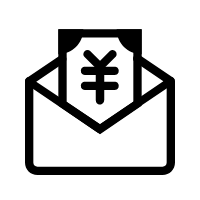
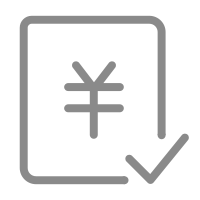
20190810 首页修改图标，合计金额

diff --git a/dist/wx/pages/index/main.js b/dist/wx/pages/index/main.js
@@ -256,6 +256,11 @@ if (false) {(function () {
 //
 //
 //
+//
+//
+//
+//
+//
 
 
 
@@ -335,7 +340,8 @@ function initChart(canvas, width, height) {
             echarts: __WEBPACK_IMPORTED_MODULE_2__static_echarts_min_js___default.a,
             onInit: initChart,
 
-            tableData: []
+            tableData: [],
+            totalMoney: ''
         };
     },
     onShow: function onShow() {
@@ -419,9 +425,17 @@ function initChart(canvas, width, height) {
                 success: function success(res) {
                     var info = res.data.reverse();
                     option.series[0].data = [];
+                    var num = new Number();
                     info.forEach(function (el, i) {
                         option.series[0].data.push({ value: i, name: el.name + '(' + el.value + ')', label: el.value });
+                        if (el.name !== '成功签约' && el.name !== '失败关闭') {
+                            var val = el.opportunity_achievement.replace(new RegExp(',', 'g'), '');
+                            val = parseFloat(val);
+                            num += val;
+                        }
                     });
+
+                    _this.totalMoney = num;
 
                     _this.tableData = info.reverse();
 
@@ -657,8 +671,38 @@ var render = function () {var _vm=this;var _h=_vm.$createElement;var _c=_vm._sel
     return _c('view', {
       key: index,
       staticClass: "index_table_td"
-    }, [_c('span', [_vm._v(_vm._s(item.name + '(' + item.proportion + ')'))]), _vm._v(" "), _c('span', [_vm._v(_vm._s(item.value))]), _vm._v(" "), _c('span', [_vm._v(_vm._s(item.opportunity_achievement))])])
-  })], 2)], 1)
+    }, [_c('span', {
+      staticStyle: {
+        "flex": "1.5"
+      }
+    }, [_vm._v(_vm._s(item.name + '(' + item.proportion + ')'))]), _vm._v(" "), _c('span', {
+      staticStyle: {
+        "padding-left": "42px",
+        "box-sizing": "border-box",
+        "flex": "1"
+      }
+    }, [_vm._v(_vm._s(item.value))]), _vm._v(" "), _c('span', {
+      staticStyle: {
+        "flex": "1"
+      }
+    }, [_vm._v(_vm._s(item.opportunity_achievement))])])
+  }), _vm._v(" "), _c('view', {
+    staticClass: "index_table_foot"
+  }, [_c('span', {
+    staticStyle: {
+      "flex": "1.5"
+    }
+  }, [_vm._v("合计")]), _vm._v(" "), _c('span', {
+    staticStyle: {
+      "padding-left": "42px",
+      "box-sizing": "border-box",
+      "flex": "1"
+    }
+  }), _vm._v(" "), _c('span', {
+    staticStyle: {
+      "flex": "1"
+    }
+  }, [_vm._v(_vm._s(_vm.totalMoney))])])], 2)], 1)
 }
 var staticRenderFns = [function () {var _vm=this;var _h=_vm.$createElement;var _c=_vm._self._c||_h;
   return _c('view', {
@@ -807,7 +851,19 @@ var staticRenderFns = [function () {var _vm=this;var _h=_vm.$createElement;var _
 },function () {var _vm=this;var _h=_vm.$createElement;var _c=_vm._self._c||_h;
   return _c('view', {
     staticClass: "index_table_th"
-  }, [_c('span', [_vm._v("商机阶段")]), _vm._v(" "), _c('span', [_vm._v("机会数量")]), _vm._v(" "), _c('span', [_vm._v("预计合同金额")])])
+  }, [_c('span', {
+    staticStyle: {
+      "flex": "1.5"
+    }
+  }, [_vm._v("商机阶段")]), _vm._v(" "), _c('span', {
+    staticStyle: {
+      "flex": "1"
+    }
+  }, [_vm._v("机会数量")]), _vm._v(" "), _c('span', {
+    staticStyle: {
+      "flex": "1"
+    }
+  }, [_vm._v("预计成交金额")])])
 }]
 render._withStripped = true
 var esExports = { render: render, staticRenderFns: staticRenderFns }

diff --git a/src/pages/index/index.vue b/src/pages/index/index.vue
@@ -146,14 +146,19 @@
 
         <view class="index_table">
             <view class="index_table_th">
-                <span>商机阶段</span>
-                <span>机会数量</span>
-                <span>预计合同金额</span>
+                <span style="flex:1.5">商机阶段</span>
+                <span style="flex:1">机会数量</span>
+                <span style="flex:1">预计成交金额</span>
             </view>
             <view class="index_table_td" v-for="(item,index) in tableData" :key="index">
-                <span>{{item.name + '(' + item.proportion + ')'}}</span>
-                <span>{{item.value}}</span>
-                <span>{{item.opportunity_achievement}}</span>
+                <span style="flex:1.5">{{item.name + '(' + item.proportion + ')'}}</span>
+                <span style="padding-left:42px;box-sizing:border-box;flex:1">{{item.value}}</span>
+                <span style="flex:1">{{item.opportunity_achievement}}</span>
+            </view>
+            <view class="index_table_foot">
+                <span style="flex:1.5">合计</span>
+                <span style="padding-left:42px;box-sizing:border-box;flex:1"></span>
+                <span style="flex:1">{{totalMoney}}</span>
             </view>
         </view>
     </div>
@@ -241,6 +246,7 @@
                 onInit: initChart,
 
                 tableData:[],
+                totalMoney:'',
             }
         },
 
@@ -324,11 +330,19 @@
                     success: function (res) {
                         let info = res.data.reverse()
                         option.series[0].data = []
+                        let num = new Number()
                         info.forEach((el,i) => {
                             option.series[0].data.push(
                                 {value:i,name:el.name + '(' + el.value + ')',label:el.value}
                             )
+                            if(el.name !== '成功签约' && el.name !== '失败关闭'){
+                                let val = el.opportunity_achievement.replace(new RegExp(',','g'),'')
+                                val = parseFloat(val)
+                                num += val
+                            }
                         });
+                        
+                        _this.totalMoney = num
 
                         _this.tableData = info.reverse()
 
@@ -446,10 +460,9 @@
         background-color: #f8f8f8
     }
     .index_table_th span{
-        flex: 1;
         font-size: 14px;
-        font-weight: bold;
-        padding-left: 10px;
+        font-weight: 500;
+        padding: 10px;
         box-sizing: border-box
     }
     .index_table_td{
@@ -459,9 +472,20 @@
         border-bottom: 1rpx solid #f0f0f0
     }
     .index_table_td span{
-        flex: 1;
         font-size: 13px;
-        padding-left: 10px;
+        padding: 5px 10px;
+        box-sizing: border-box
+    }
+    .index_table_foot{
+        display: flex;
+        align-items: center;
+        height: 32px;
+        background-color: #fcfcfc;
+        border-bottom: 1rpx solid #f0f0f0
+    }
+    .index_table_foot span{
+        font-size: 13px;
+        padding: 5px 10px;
         box-sizing: border-box
     }
 </style>
